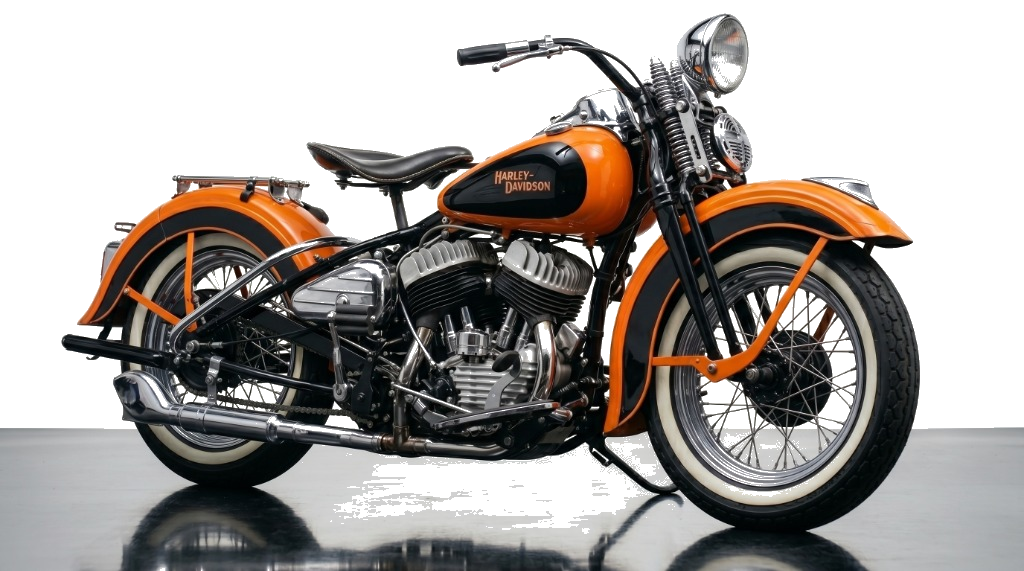
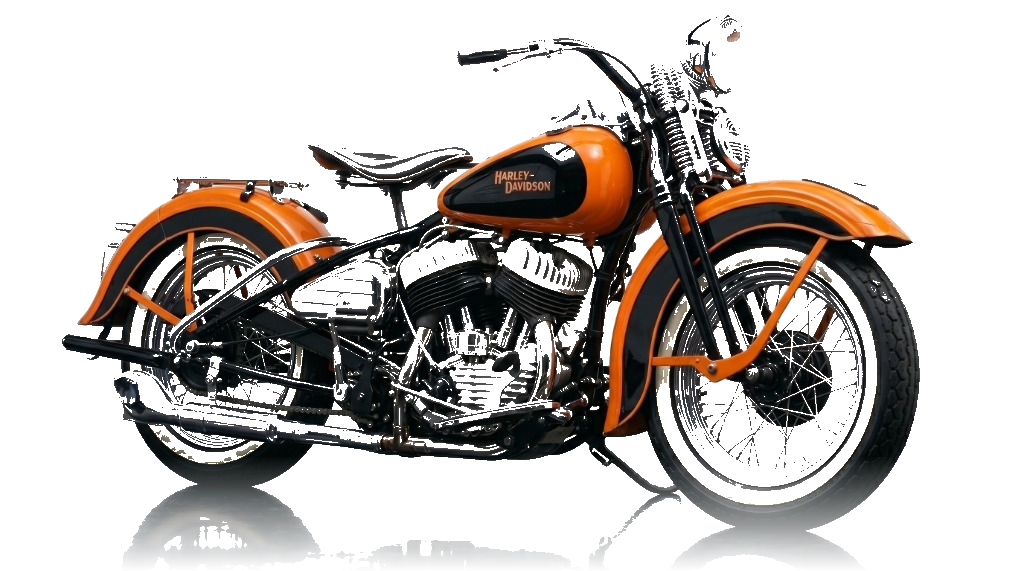
Fix: grid hero layout + improved background removal

diff --git a/themes/moto/static/css/main.css b/themes/moto/static/css/main.css
@@ -98,64 +98,32 @@ a:hover {
 
 /* ── HOME HERO ── */
 .home-hero {
-  position: relative;
-  min-height: 520px;
-  display: flex;
+  display: grid;
+  grid-template-columns: 1fr 1fr;
   align-items: center;
-  overflow: hidden;
+  min-height: 520px;
   border-bottom: 1px solid var(--border);
-}
-
-.hero-bg {
-  position: absolute;
-  inset: 0;
-  z-index: 0;
-}
-
-.hero-bike-img {
-  position: absolute;
-  right: -2%;
-  bottom: 0;
-  height: 110%;
-  width: 58%;
-  object-fit: contain;
-  object-position: right bottom;
-  filter: drop-shadow(-20px 0 40px rgba(13,17,23,0.8));
-}
-
-.hero-gradient {
-  position: absolute;
-  inset: 0;
-  background: linear-gradient(
-    to right,
-    var(--bg-primary) 30%,
-    rgba(13,17,23,0.9) 45%,
-    rgba(13,17,23,0.2) 70%,
-    transparent 100%
-  );
-}
-
-.hero-content {
-  position: relative;
-  z-index: 1;
-  padding: 4rem 1.5rem;
+  background: radial-gradient(ellipse 70% 80% at 20% 50%, rgba(88, 166, 255, 0.06) 0%, transparent 70%);
+  overflow: hidden;
+  padding: 0 1.5rem 0 calc((100% - 1100px) / 2 + 1.5rem);
 }
 
 .hero-text {
+  padding: 4rem 2rem 4rem 0;
   max-width: 520px;
 }
 
 .hero-eyebrow {
-  font-size: 0.95rem;
+  font-size: 0.85rem;
   font-weight: 600;
   color: var(--accent-orange);
-  letter-spacing: 0.04em;
+  letter-spacing: 0.08em;
   text-transform: uppercase;
-  margin-bottom: 1rem;
+  margin-bottom: 1.25rem;
 }
 
 .hero-title {
-  font-size: clamp(2.8rem, 6vw, 4.5rem);
+  font-size: clamp(2.8rem, 5vw, 4.2rem);
   font-weight: 800;
   letter-spacing: -0.03em;
   line-height: 1.05;
@@ -183,14 +151,31 @@ a:hover {
   border-radius: 999px;
   font-weight: 600;
   font-size: 1rem;
-  text-decoration: none;
   transition: background 0.2s, border-color 0.2s, transform 0.2s;
 }
 
 .hero-cta:hover {
-  background: rgba(88, 166, 255, 0.2);
+  background: rgba(88, 166, 255, 0.22);
   border-color: rgba(88, 166, 255, 0.6);
   transform: translateY(-2px);
+}
+
+.hero-bike {
+  display: flex;
+  align-items: flex-end;
+  justify-content: flex-end;
+  height: 100%;
+  min-height: 520px;
+  position: relative;
+}
+
+.hero-bike img {
+  max-height: 540px;
+  width: 100%;
+  object-fit: contain;
+  object-position: right bottom;
+  filter: drop-shadow(-30px 10px 30px rgba(0,0,0,0.6));
+  margin-right: -1.5rem;
 }
 
 

diff --git a/themes/moto/layouts/index.html b/themes/moto/layouts/index.html
@@ -1,16 +1,13 @@
 {{ define "main" }}
 <div class="home-hero">
-  <div class="hero-bg">
-    <img src="{{ "images/harley.png" | relURL }}" alt="Harley-Davidson Sportster" class="hero-bike-img" />
-    <div class="hero-gradient"></div>
+  <div class="hero-text">
+    <p class="hero-eyebrow">🏍 Harley-Davidson Sportster</p>
+    <h1 class="hero-title">Motovýlety</h1>
+    <p class="hero-subtitle">Itineráře na Harley‑Davidson Sportster.<br>Žádné dálnice. Jen dobré zatáčky.</p>
+    <a href="#vylety" class="hero-cta">Zobrazit výlety ↓</a>
   </div>
-  <div class="hero-content container">
-    <div class="hero-text">
-      <p class="hero-eyebrow">🏍 Harley-Davidson Sportster</p>
-      <h1 class="hero-title">Motovýlety</h1>
-      <p class="hero-subtitle">Itineráře na Harley‑Davidson Sportster.<br>Žádné dálnice. Jen dobré zatáčky.</p>
-      <a href="#vylety" class="hero-cta">Zobrazit výlety ↓</a>
-    </div>
+  <div class="hero-bike">
+    <img src="{{ "images/harley.png" | relURL }}" alt="Harley-Davidson Sportster" />
   </div>
 </div>
 
